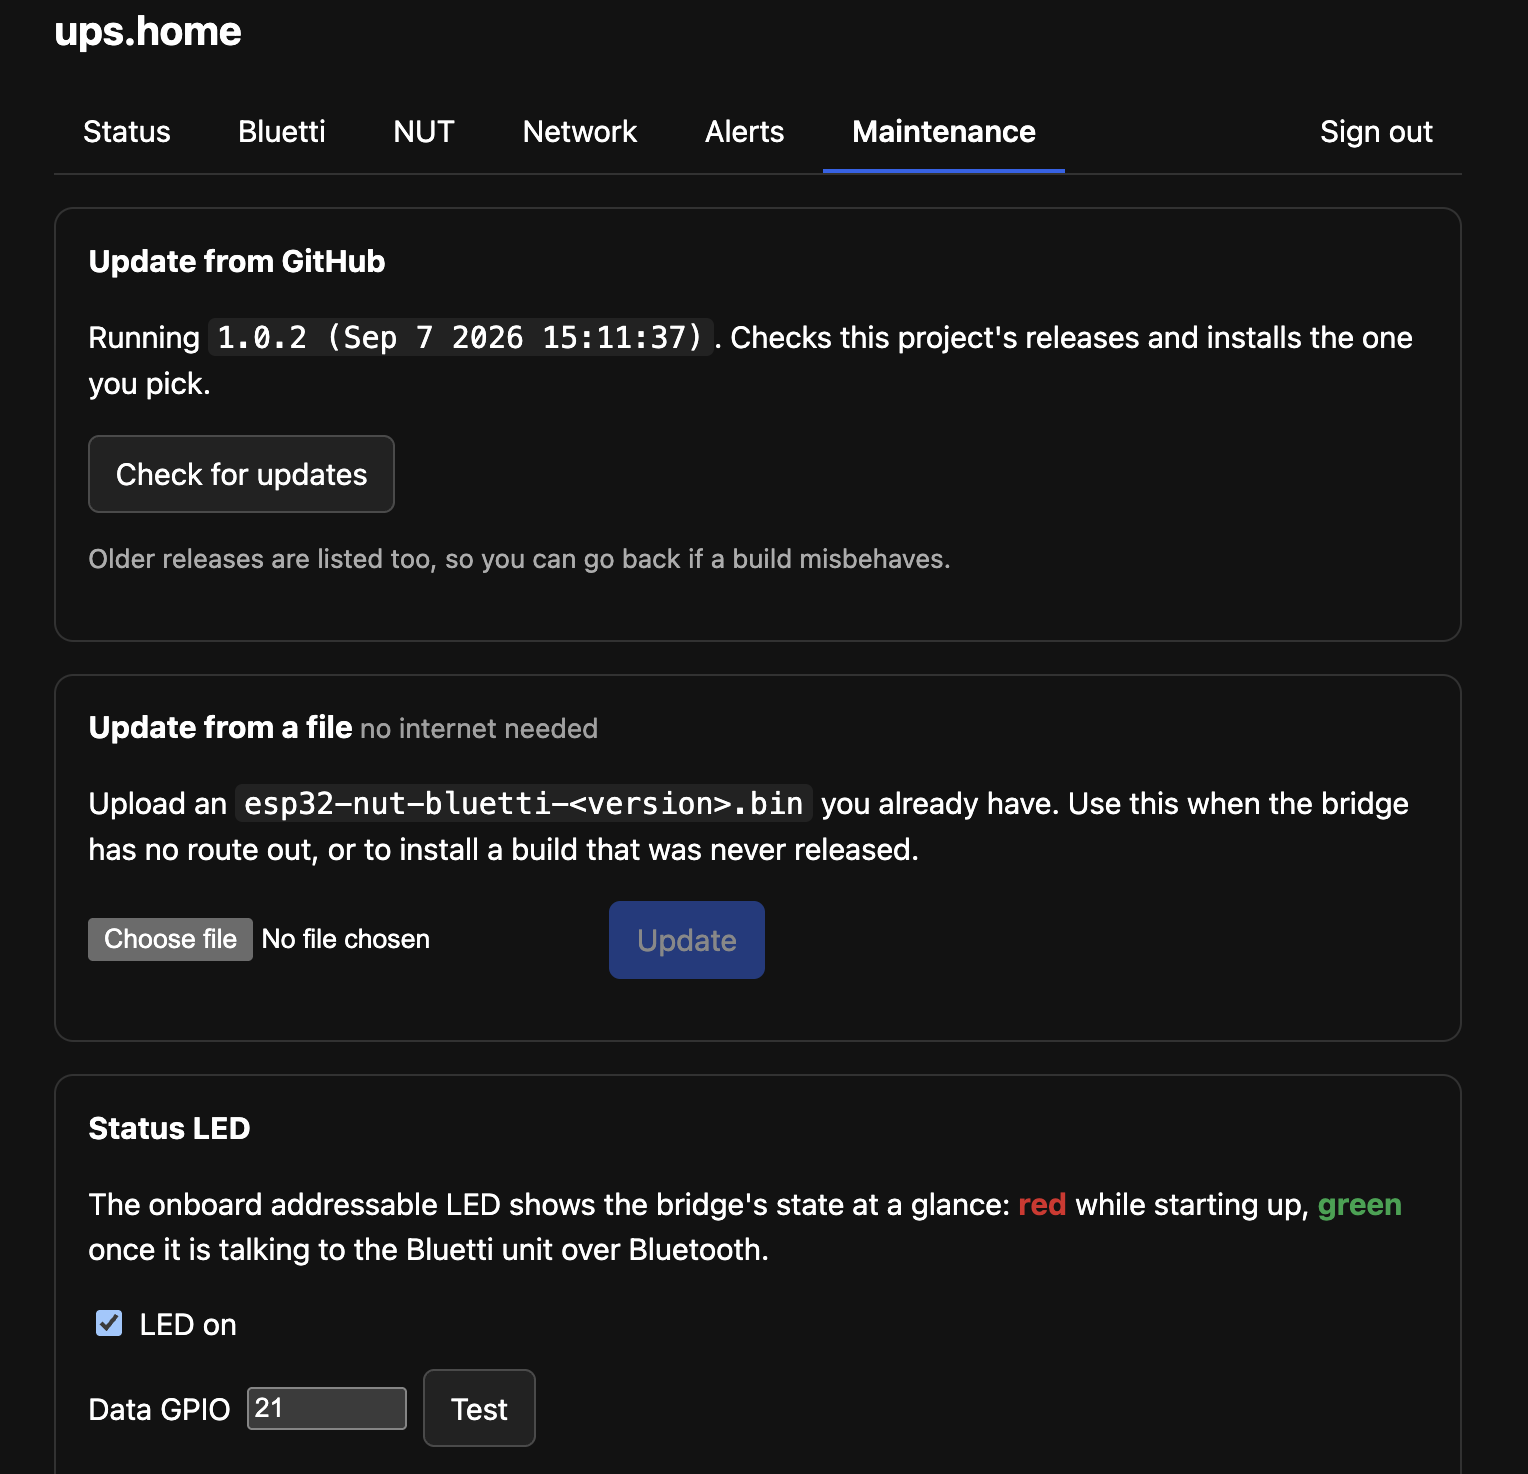
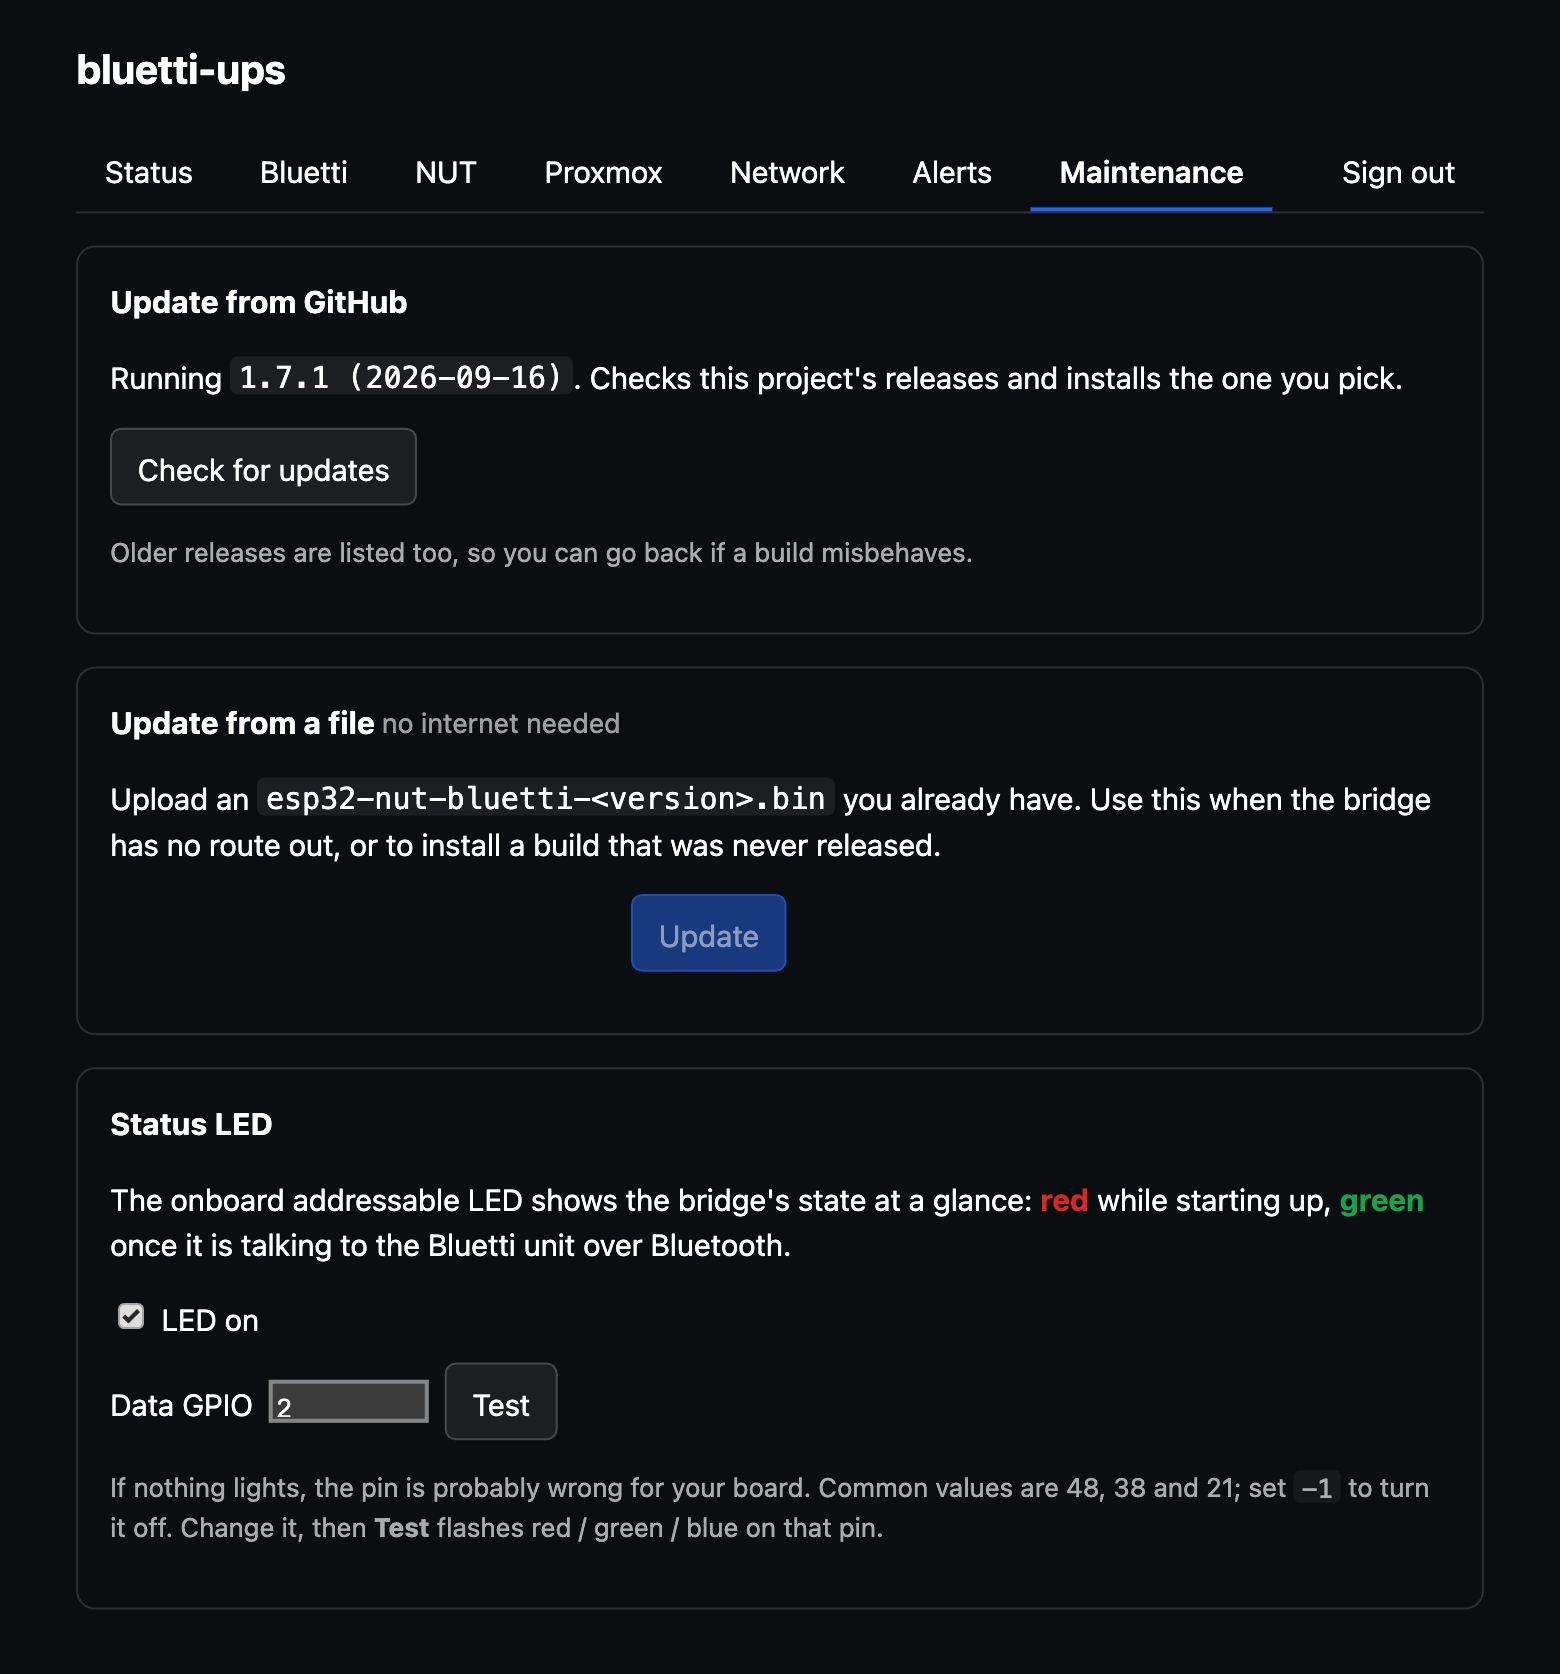
docs: refresh Status/Maintenance screenshots, add Proxmox tab
status.png and maintenance.png dated from before v1.0.3 and didn't
show the Proxmox host dots the Status page grew in v1.7.0, or the
current firmware version. Recaptured both, and added a Proxmox tab
screenshot to match the new README section: armed/dry-run, a host's
connection fields and thresholds, and per-guest cards for a couple of
running VMs and a stopped container.

diff --git a/README.md b/README.md
@@ -88,7 +88,7 @@ Served from the ESP32 itself. **Status** shows the live power flow — where the
 watts are coming from, where they're going, and what the battery is doing —
 plus the NUT variables your clients see:
 
-<img src="screenshots/status.png" alt="Status tab: on-line banner, 68% battery bar, power flow from mains through the battery to AC and DC loads, and the NUT and network variable panels" width="820">
+<img src="screenshots/status.png" alt="Status tab: on-line banner, 87% battery bar, power flow from solar and mains through the battery to AC and DC loads, the NUT and network variable panels, and BLE/NUT/Proxmox-host status dots" width="820">
 
 **Maintenance** handles updates over the air — pick a GitHub release, or upload
 a `.bin` when the bridge has no route out:
@@ -113,6 +113,8 @@ pve-ups style:
   trusted the way SSH trusts a host key, not blindly accepted.
 - **Dry run until you arm it** — counts down and alerts without touching
   anything, so you can watch a full outage play out before it can act.
+
+<img src="screenshots/proxmox.png" alt="Proxmox tab: armed/dry-run toggle, re-arm timer, a host's connection fields, its on-battery/charge thresholds, and per-guest cards for two running VMs and a stopped container" width="820">
 
 Set up from the **Proxmox** tab; full walkthrough (token setup, the safety
 model, re-arming after mains returns) in
